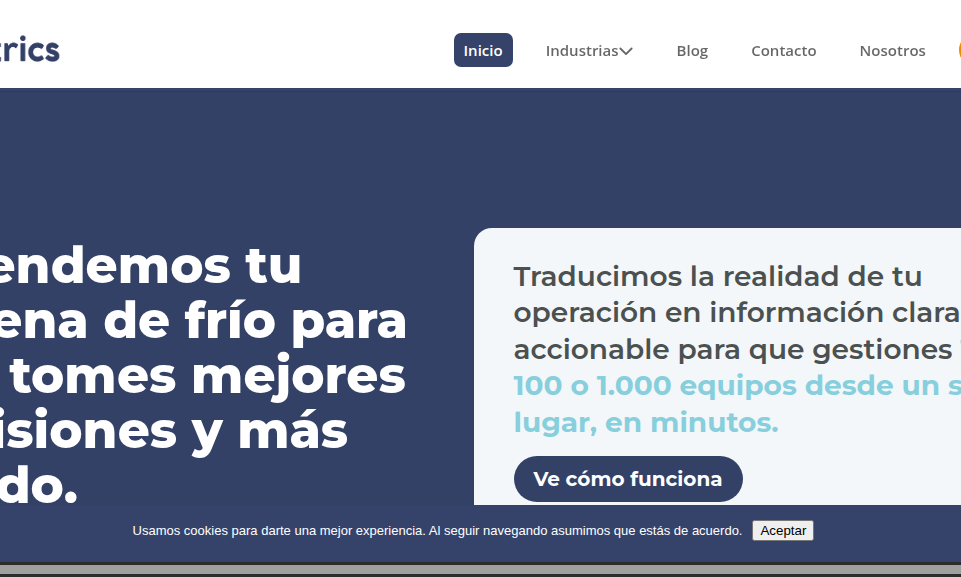
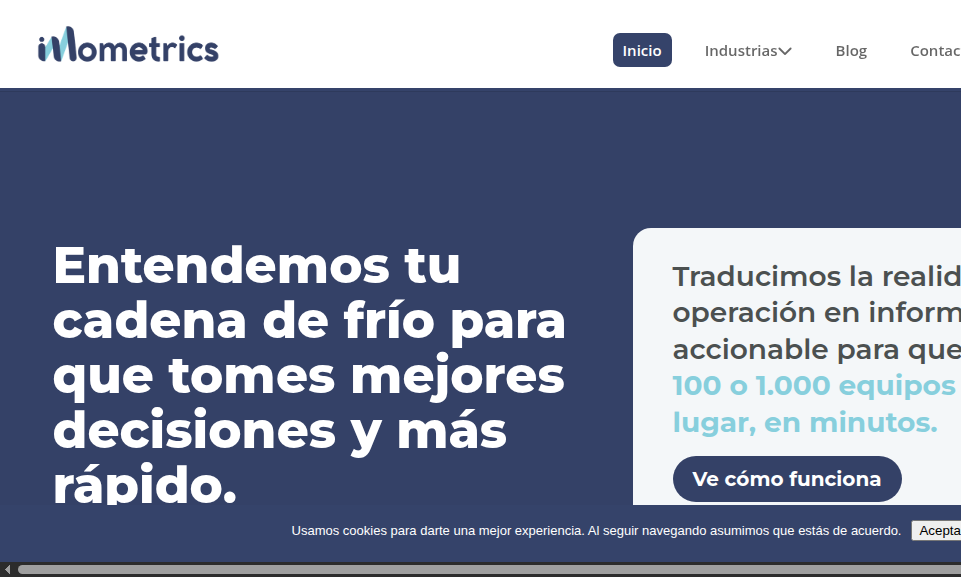
fix: real AppTreeking project + curated tech + corrected stats
- 'Tripi' was wrong — the project is AppTreeking, a mobile (Expo/React Native)
  trekking-experiences marketplace for Colombia (Supabase + Wompi + Next.js
  admin). Real name, kind, role (Full-Stack Mobile Dev), desc, bullets, tags,
  and a real preview (Valle de Cocora trek shot)
- Stack chips: removed tech Alexis doesn't use (Zustand, Zod, Framer Motion,
  Tanstack Query, Prisma, CakePHP→PHP, n8n). Added NestJS + React Native
- Removed n8n from the hero marquee and de-emphasized it in the about/services
  copy (kept only on the To-Do project where it's the core)
- About stats: 5+→4+ years, 20+→10+ projects (less inflated), about copy now
  highlights stack-adaptability. 3rd stat (technologies) pending a decision
- Fixed iMometrics preview crop (was center-cropped, cutting the logo/hero —
  now left-cropped to keep the brand + headline)

diff --git a/src/lib/data/work.ts b/src/lib/data/work.ts
@@ -59,7 +59,7 @@ export interface WorkItem {
 import coverAnai from '../../assets/preview-anai.png';
 import coverImometrics from '../../assets/preview-imometrics.png';
 import coverSticker from '../../assets/preview-sticker.png';
-import coverTripi from '../../assets/cover-tripi.png';
+import coverApptreeking from '../../assets/preview-apptreeking.png';
 import coverCarljung from '../../assets/cover-carljung.png';
 import coverBunny from '../../assets/preview-bunny.png';
 import coverTodo from '../../assets/preview-todo.png';
@@ -175,39 +175,37 @@ export const work: readonly WorkItem[] = [
 
   // 3 — Tripi
   {
-    id: 'tripi',
-    company: 'Tripi',
-    name: 'Tripi',
+    id: 'apptreeking',
+    company: 'AppTreeking',
+    name: 'AppTreeking',
     accent: '#46C97E',
-    cover: coverTripi,
+    cover: coverApptreeking,
     links: { link: null, code: 'https://github.com/AlexisPalacioDev/apptreeking' },
-    period: { en: '2022 — 2023', es: '2022 — 2023' },
+    period: { en: '2025 — 2026', es: '2025 — 2026' },
     role: {
-      en: 'Full-Stack Developer',
-      es: 'Desarrollador Full-Stack',
+      en: 'Full-Stack Mobile Developer',
+      es: 'Desarrollador Full-Stack Mobile',
     },
-    kind: { en: 'Marketplace with Escrow', es: 'Marketplace con Escrow' },
-    status: { en: 'Delivered', es: 'Entregado' },
-    statusKey: WORK_STATUS.ARCHIVED,
+    kind: { en: 'Trekking Experiences Marketplace', es: 'Marketplace de Experiencias de Trekking' },
+    status: { en: 'In progress', es: 'En curso' },
+    statusKey: WORK_STATUS.LIVE,
     desc: {
-      en: 'Full-stack development of Tripi, an app-based treeking and adventure activities marketplace with integrated escrow payments, provider management and booking flows.',
-      es: 'Desarrollo full-stack de Tripi, un marketplace de actividades de trekking y aventura con pagos escrow integrados, gestión de proveedores y flujos de reserva.',
+      en: 'A mobile marketplace connecting Colombian travelers with certified local trekking guides — guides publish routes by biome; travelers book spots with escrow-protected payments via Wompi. Built solo: mobile app, Supabase backend and a Next.js admin panel.',
+      es: 'Marketplace móvil que conecta viajeros colombianos con guías de trekking locales certificados — los guías publican rutas por bioma; los viajeros reservan cupos con pago en custodia vía Wompi. Hecho en solitario: app móvil, backend Supabase y panel admin Next.js.',
     },
     bullets: {
       en: [
-        'Built end-to-end marketplace with escrow payment system protecting both buyers and providers',
-        'Designed provider onboarding flow and activity listing management system',
-        'Implemented booking, scheduling and review system with real-time notifications',
-        'Delivered responsive web app and integration with payment provider for Colombia market',
+        'Built a full-stack Expo / React Native marketplace on Supabase — RLS policies, Postgres RPCs and Deno Edge Functions for escrow booking and payment webhooks',
+        'Integrated Wompi (Colombia) behind a port/adapter pattern with webhook signature verification and checkout integrity signing',
+        'Designed a role-based system (traveler / guide / admin) with a guide-verification flow and a Next.js admin panel for moderation and disputes',
       ],
       es: [
-        'Construí marketplace completo con sistema de pagos escrow que protege compradores y proveedores',
-        'Diseñé flujo de onboarding de proveedores y sistema de gestión de listados de actividades',
-        'Implementé sistema de reservas, agenda y reseñas con notificaciones en tiempo real',
-        'Entregué app web responsive con integración a proveedor de pagos para el mercado colombiano',
+        'Construí un marketplace full-stack Expo / React Native sobre Supabase — políticas RLS, RPCs de Postgres y Deno Edge Functions para reservas en custodia y webhooks de pago',
+        'Integré Wompi (Colombia) con patrón port/adapter, verificación de firma de webhooks y firma de integridad del checkout',
+        'Diseñé un sistema por roles (viajero / guía / admin) con flujo de verificación de guías y un panel admin Next.js para moderación y disputas',
       ],
     },
-    tags: ['Next.js', 'Node.js', 'PostgreSQL', 'Stripe', 'TypeScript'],
+    tags: ['Expo / React Native', 'TypeScript', 'Supabase', 'Wompi', 'Next.js'],
   },
 
   // 4 — Carl Jung AI

diff --git a/src/lib/i18n/dictionary.ts b/src/lib/i18n/dictionary.ts
@@ -25,7 +25,7 @@ export const I18N = {
     hero_h1: 'I orchestrate AI',
     hero_h1_accent: 'to ship real outcomes.',
     hero_sub:
-      'Full-stack developer specialized in AI agents, automation harnesses and LLM orchestration — agents, loops, MCP, n8n. 5 years turning ideas into products that actually run in production.',
+      'Full-stack developer specialized in AI agents, automation harnesses and LLM orchestration — agents, loops, MCP. 4 years turning ideas into products that actually run in production, adapting to whatever stack the job needs.',
     hero_cta_hire: 'Hire me',
     hero_cta_cv: 'Download CV',
     hero_scroll: 'Scroll',
@@ -37,7 +37,7 @@ export const I18N = {
     about_p1:
       'Full-stack developer with 5+ years building web products end to end. Over the last two years I pivoted hard into AI orchestration: my edge is not a single language — it\'s wiring models, tools and data into systems that hit a goal on their own.',
     about_p2:
-      "I've built voice agents connected to external sources through MCP, automation harnesses with n8n, and LLM pipelines running both in the cloud and locally (Ollama, OpenRouter). Solid backend foundations in PHP/CakePHP, Node and Python, with a modern frontend (React, Next.js, Tailwind).",
+      "I've built voice agents connected to external sources through MCP, automation harnesses, and LLM pipelines running both in the cloud and locally (Ollama, OpenRouter). Solid backend foundations in PHP, Node and Python, with a modern frontend (React, React Native, Next.js, Tailwind).",
     about_p3:
       "Right now I'm engineering AI content generation at anai. I work remote, ship fast, and I'm hungry — in every sense of the word.",
     stat_years: 'Years shipping',
@@ -73,7 +73,7 @@ export const I18N = {
     services_sub: 'Available for full-time remote, contracts and AI consulting. Let\'s build.',
     svc1_title: 'AI Agents & Automation',
     svc1_desc:
-      'Custom agents, n8n harnesses, MCP integrations and bots on WhatsApp / Telegram that actually move the needle.',
+      'Custom agents, automation harnesses, MCP integrations and bots on WhatsApp / Telegram that actually move the needle.',
     svc2_title: 'Full-Stack Development',
     svc2_desc:
       'Web apps end to end — Next.js, React, Supabase, Node, payments and clean APIs that scale.',
@@ -122,7 +122,7 @@ export const I18N = {
     hero_h1: 'Orquesto IA',
     hero_h1_accent: 'para entregar resultados reales.',
     hero_sub:
-      'Desarrollador full-stack especializado en agentes de IA, harnesses de automatización y orquestación de LLMs — agentes, loops, MCP, n8n. 5 años convirtiendo ideas en productos que de verdad corren en producción.',
+      'Desarrollador full-stack especializado en agentes de IA, harnesses de automatización y orquestación de LLMs — agentes, loops, MCP. 4 años convirtiendo ideas en productos que de verdad corren en producción, adaptándome a la tecnología que el proyecto necesite.',
     hero_cta_hire: 'Contratame',
     hero_cta_cv: 'Descargar CV',
     hero_scroll: 'Baja',
@@ -134,7 +134,7 @@ export const I18N = {
     about_p1:
       "Desarrollador full-stack con 5+ años construyendo productos web de punta a punta. En los últimos dos años me volqué a la orquestación de IA: mi fuerte no es un solo lenguaje — es conectar modelos, herramientas y datos en sistemas que logran una meta por sí solos.",
     about_p2:
-      "He construido agentes de voz conectados a fuentes externas vía MCP, harnesses de automatización con n8n y pipelines de LLM corriendo en la nube y en local (Ollama, OpenRouter). Base sólida en PHP/CakePHP, Node y Python, con frontend moderno (React, Next.js, Tailwind).",
+      "He construido agentes de voz conectados a fuentes externas vía MCP, harnesses de automatización y pipelines de LLM corriendo en la nube y en local (Ollama, OpenRouter). Base sólida en PHP, Node y Python, con frontend moderno (React, React Native, Next.js, Tailwind).",
     about_p3:
       "Hoy estoy desarrollando generación de contenido con IA en anai. Trabajo remoto, entrego rápido y tengo hambre — en todos los sentidos de la palabra.",
     stat_years: 'Años entregando',
@@ -170,7 +170,7 @@ export const I18N = {
     services_sub: 'Disponible para remoto full-time, contratos y consultoría en IA. Construyamos.',
     svc1_title: 'Agentes de IA y Automatización',
     svc1_desc:
-      'Agentes a medida, harnesses con n8n, integraciones MCP y bots en WhatsApp / Telegram que mueven la aguja.',
+      'Agentes a medida, harnesses de automatización, integraciones MCP y bots en WhatsApp / Telegram que mueven la aguja.',
     svc2_title: 'Desarrollo Full-Stack',
     svc2_desc:
       'Apps web de punta a punta — Next.js, React, Supabase, Node, pagos y APIs limpias que escalan.',

diff --git a/tests/e2e/i18n-full.spec.ts b/tests/e2e/i18n-full.spec.ts
@@ -224,8 +224,8 @@ test.describe('ProjectDeck lang-switch with non-default active project', () => {
     const detailDesc = page.locator('#detail-desc');
     const esDesc = await detailDesc.textContent();
     expect(esDesc).toBeTruthy();
-    // ES desc for Tripi should start with 'Desarrollo full-stack'
-    expect(esDesc).toContain('Desarrollo full-stack');
+    // ES desc for AppTreeking (card 3) should be the Spanish copy
+    expect(esDesc).toContain('Marketplace móvil');
   });
 
   test('switching back to EN after non-default project restores EN text', async ({ page }) => {

diff --git a/tests/unit/work.test.ts b/tests/unit/work.test.ts
@@ -6,7 +6,7 @@ const EXPECTED_IDS = [
   'anai',
   'imometrics',
   'sticker-drops',
-  'tripi',
+  'apptreeking',
   'carljung',
   'bunnygymwear',
   'todo-automation',